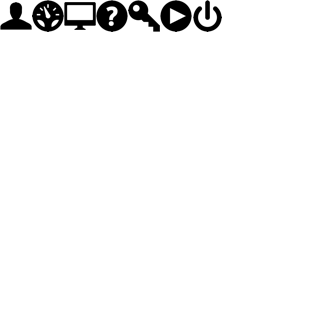
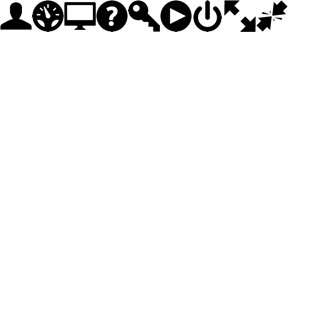
V: dropdown for screen size is done

Changed region(s): [[0.6875, 0.0, 0.9062, 0.125]]

diff --git a/app/assets/stylesheets/_redesign-header.scss b/app/assets/stylesheets/_redesign-header.scss
@@ -19,6 +19,26 @@
       font-weight:bold;
       text-transform:uppercase;
       text-shadow: 0 1px 0 $black;
+      .dropdown-menu {
+        @include reset-list();
+        @include border-radius(0);
+        float: none;
+        background: $black;
+        li {
+          float:none;
+          clear: both;
+          a {
+            display:block;
+            color:$menuLink;
+            line-height:30px;
+            padding: 0 10px;
+            &:hover {
+              background: $black;
+              color:$white;
+            }
+          }
+        }
+      }
       i {
         margin: 7px 6px 0 0;
         @include opacity(0.6);
@@ -38,29 +58,13 @@
       }
       &.user {
         text-transform:lowercase;
-        .dropdown-menu {
-          @include reset-list();
-          @include border-radius(0);
-          float: none;
-          background: $black;
-          li {
-            float:none;
-            clear: both;
-            a {
-              display:block;
-              color:$menuLink;
-              line-height:30px;
-              padding: 0 10px;
-              &:hover {
-                background: $black;
-                color:$white;
-              }
-            }
-          }
-        }
       }
       &.screen {
         background:$screenBgnd;
+        .dropdown-menu {
+          left: auto;
+          right: 0;
+        }
       }
       &.active {
         text-shadow: none;

diff --git a/app/assets/stylesheets/_icons.scss b/app/assets/stylesheets/_icons.scss
@@ -62,11 +62,25 @@
     background-position:-96px 0;
   }
 }
+.grcicon-normal {
+  @include new-icons();
+  background-position:-128px -16px;
+  .active & {
+    background-position:-128px 0;
+  }
+}
 .grcicon-user {
   @include new-icons();
   background-position:0 -16px;
   .active & {
     background-position:0 0;
+  }
+}
+.grcicon-wide {
+  @include new-icons();
+  background-position:-112px -16px;
+  .active & {
+    background-position:-112px 0;
   }
 }
 
